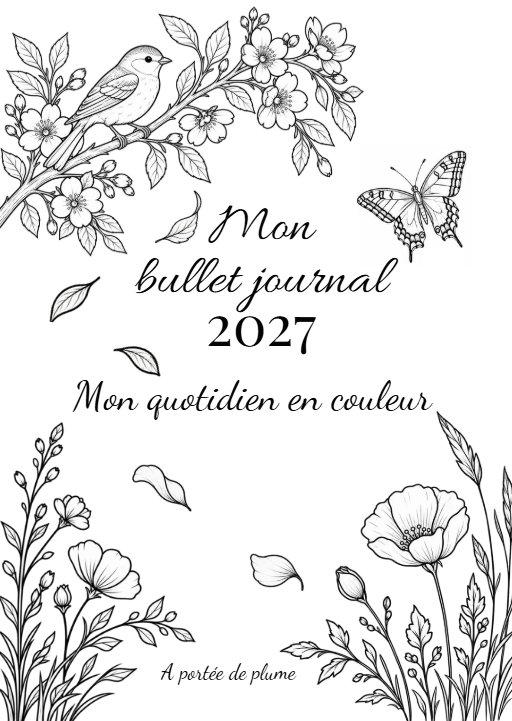
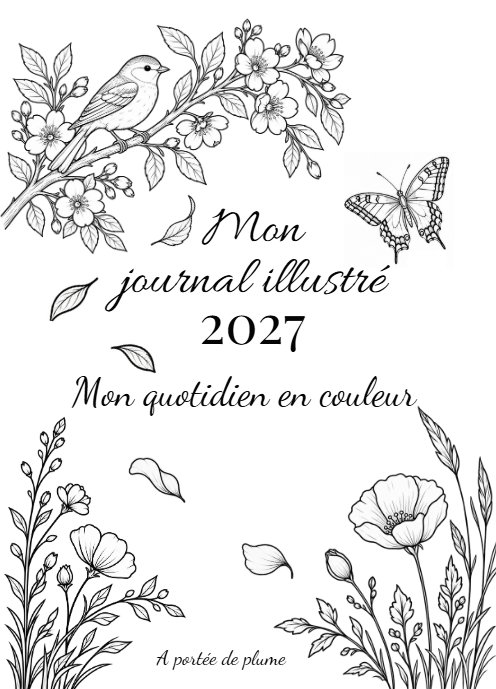
maj

Changed region(s): [[0.0, 0.0, 1.0, 1.0], [0.4839, 0.762, 0.6048, 0.8534], [0.2419, 0.6401, 0.3931, 0.7315]]

diff --git a/products.js b/products.js
@@ -236,16 +236,16 @@ const PRODUCTS = [
   {
     id: "bjf3",
     ref: "BJF3",
-    name: "Mon bullet journal 2027 : Sur les chemins du vivant",
+    name: "Mon journal illustré 2027 : Sur les chemins du vivant",
     category: "bullet-journal",
     price: 26,
     weight: null,
     available: false,
-    shortDesc: "Un bullet journal au fil des saisons, pour organiser son quotidien tout en gardant un pied dans la nature.",
+    shortDesc: "Un journal illustré au fil des saisons, pour organiser son quotidien tout en gardant un pied dans la nature.",
     longDesc: [
       "Sur les chemins du vivant accompagnera toute l'année 2027 avec un univers tourné vers la nature et l'observation du monde qui nous entoure. Pensé comme un mélange entre outil d'organisation et carnet naturaliste, il permet de suivre ses habitudes, ses projets et ses envies tout en gardant une trace de ses sorties et de ses observations.",
-      { heading: "Un bullet journal tourné vers le vivant" },
-      "En plus des pages classiques d'un bullet journal (calendrier annuel, objectifs, projets, trackers du quotidien), ce carnet propose des espaces pensés pour celles et ceux qui aiment observer la nature au fil des saisons.",
+      { heading: "Un journal illustré tourné vers le vivant" },
+      "En plus des pages classiques d'un journal illustré (calendrier annuel, objectifs, projets, trackers du quotidien), ce carnet propose des espaces pensés pour celles et ceux qui aiment observer la nature au fil des saisons.",
       "Les informations complètes sur son contenu seront précisées à l'approche de sa sortie."
     ],
     specs: [
@@ -259,26 +259,25 @@ const PRODUCTS = [
   {
     id: "bjf4",
     ref: "BJF4",
-    name: "Mon bullet journal 2027 : Mon quotidien en couleur",
+    name: "Mon journal illustré 2027 : Mon quotidien en couleur",
     category: "bullet-journal",
     images: ["images/bjf4-a.jpg"],
     price: 24,
-    weight: null,
-    available: false,
-    shortDesc: "Un bullet journal entièrement à colorier, avec un univers différent chaque mois au fil des saisons et de l'année 2027.",
+    weight: 420,
+    available: true,
+    shortDesc: "Un journal illustré entièrement à colorier, avec un univers différent chaque mois au fil des saisons et de l'année 2027.",
     longDesc: [
-      "Mon quotidien en couleur est un bullet journal pensé pour celles et ceux qui aiment autant organiser leur quotidien que prendre le temps de colorier. Chaque page est illustrée en noir et blanc, prête à être mise en couleur au fil de l'année 2027.",
+      "Mon quotidien en couleur est un journal illustré pensé pour celles et ceux qui aiment autant organiser leur quotidien que prendre le temps de colorier. Chaque page est illustrée en noir et blanc, prête à être mise en couleur au fil de l'année 2027.",
       { heading: "Un thème à colorier chaque mois" },
       "Chaque mois a son propre univers, inspiré de la saison, d'une fête qui le marque et de la nature du moment : la plage en juillet, Noël en décembre... Quelques minutes de coloriage en remplissant son tracker ou en préparant le mois suivant, et un moment d'organisation devient un moment pour soi. À la fin de l'année, aucun exemplaire ne ressemble à un autre : il est devenu le vôtre.",
       { heading: "Tout pour suivre son année" },
-      "À l'intérieur, vous retrouvez des trackers annuels (sommeil, rêves, santé, humeur, « Rate my day »), des pages mensuelles avec habit tracker, découvertes culturelles et budget, ainsi que des pages pour vos projets, vos objectifs, votre wishlist et une check-list de valise.",
-      { heading: "Un papier pensé pour le coloriage" },
-      "L'intérieur est imprimé sur un papier choisi pour mieux supporter le coloriage."
+      "À l'intérieur, vous retrouvez des trackers annuels (sommeil, rêves, santé, humeur, « Rate my day »), des pages mensuelles avec habit tracker, découvertes culturelles et budget, ainsi que des pages pour vos projets, vos objectifs, votre wishlist et une check-list de valise."
     ],
     specs: [
       ["Format", "A5"],
       ["Couverture", "souple"],
       ["Intérieur", "noir et blanc, entièrement à colorier"],
+      ["Pages", "284"],
       ["Thèmes", "un univers par mois, entre saisons, fêtes et nature"],
       ["Année", "2027"]
     ],
@@ -287,24 +286,26 @@ const PRODUCTS = [
   {
     id: "bjf5",
     ref: "BJF5",
-    name: "Mon bullet journal 2027 : Les traces de mon année",
+    name: "Mon journal illustré 2027 : Les traces de mon année",
     category: "bullet-journal",
     images: ["images/bjf5-a.jpg"],
     price: 22,
-    weight: null,
-    available: false,
-    shortDesc: "Le bullet journal poétique et coloré de la collection, de retour pour accompagner l'année 2027.",
+    weight: 350,
+    available: true,
+    shortDesc: "Un journal illustré poétique et coloré pour organiser son quotidien, suivre son évolution et garder une trace de tout ce qui fait son année 2027.",
     longDesc: [
-      "Les traces de mon année revient pour 2027, dans la continuité de la version 2026 : un univers doux inspiré de la nature, des fleurs et des papillons, pensé comme un mélange entre outil d'organisation et carnet personnel.",
+      "Avec son univers doux inspiré de la nature, des fleurs et des papillons, Les traces de mon année accompagne toute l'année 2027. Pensé comme un mélange entre outil d'organisation et carnet personnel, il permet de suivre ses habitudes, ses projets, ses envies et les petits moments du quotidien.",
       { heading: "Une année à suivre, mois après mois" },
-      "Le carnet comprend plusieurs trackers annuels pour observer son année dans son ensemble : sommeil, rêves, santé, humeur ainsi qu'un tracker « Rate my day » pour garder une trace de son ressenti au fil des jours.",
-      "Chaque mois possède également ses propres pages à compléter avec un habit tracker, des pages consacrées à vos découvertes culturelles, une page budget et des pages libres à utiliser pour vos notes, souvenirs, idées ou selon vos envies.",
-      "Des espaces supplémentaires sont dédiés à vos projets, vos objectifs, votre wishlist et une check-list de valise pour préparer plus facilement vos voyages et escapades."
+      "Des trackers annuels permettent d'observer son année dans son ensemble : sommeil, rêves, santé, humeur, ainsi qu'un tracker « Rate my day » pour garder une trace de son ressenti au fil des jours.",
+      "Chaque mois s'ouvre sur une page de présentation illustrée, puis propose son habit tracker, des pages consacrées à vos découvertes culturelles, une page budget et des pages libres pour vos notes, souvenirs et idées.",
+      { heading: "Un espace pour tout garder" },
+      "Des pages supplémentaires sont dédiées à vos projets, vos objectifs, votre wishlist et une check-list de valise pour préparer vos voyages et escapades."
     ],
     specs: [
       ["Format", "A5"],
       ["Couverture", "souple"],
       ["Intérieur", "en couleur"],
+      ["Pages", "255"],
       ["Année", "2027"]
     ],
     icon: "compass"
@@ -463,7 +464,7 @@ const PRODUCTS = [
     shortDesc: "Un petit lot coloré pour décorer carnets, agendas, lettres et créations.",
     longDesc: [
       "Ce lot contient 10 autocollants représentant différents oiseaux, à utiliser selon vos envies pour personnaliser vos supports du quotidien.",
-      "Ils peuvent être collés dans un carnet d'observation, un bullet journal, un agenda, sur une carte ou dans toute autre création personnelle."
+      "Ils peuvent être collés dans un carnet d'observation, un journal illustré, un agenda, sur une carte ou dans toute autre création personnelle."
     ],
     specs: [
       ["Contenu", "10 autocollants d'oiseaux"],
@@ -484,7 +485,7 @@ const PRODUCTS = [
     shortDesc: "Un petit lot coloré pour décorer carnets, agendas, lettres et créations.",
     longDesc: [
       "Ce lot contient 10 autocollants représentant différents insectes, à utiliser selon vos envies pour personnaliser vos supports du quotidien.",
-      "Ils peuvent être collés dans un carnet d'observation, un bullet journal, un agenda, sur une carte ou dans toute autre création personnelle."
+      "Ils peuvent être collés dans un carnet d'observation, un journal illustré, un agenda, sur une carte ou dans toute autre création personnelle."
     ],
     specs: [
       ["Contenu", "10 autocollants d'insectes"],
@@ -500,7 +501,7 @@ const PRODUCTS = [
    d'un autre thème que "oiseaux" est ajouté au catalogue — même logique que pour "Autocollants". */
 const CATEGORIES = [
   { id: "carnets-observation", label: "Carnets d'observation" },
-  { id: "bullet-journal", label: "Bullet Journal" },
+  { id: "bullet-journal", label: "Journaux illustrés" },
   { id: "colorier", label: "Illustrations à colorier" },
   { id: "stickers", label: "Autocollants" }
 ];

diff --git a/commande.html b/commande.html
@@ -179,19 +179,7 @@
       <a href="mailto:aporteedeplume.contact@gmail.com" style="color:var(--brique); font-weight:600;">aporteedeplume.contact@gmail.com</a>.
     </div>
 
-    <div class="next-steps" style="margin-top:16px; padding-top:16px;" id="payment-info-virement">
-      <b>Règlement par virement</b>
-      Après réception de votre bon de commande, vous recevrez le RIB par e-mail.
-      <br><br>
-      Merci d'indiquer <strong>votre prénom et nom</strong> dans le libellé du virement, afin que votre commande soit facilement retrouvée.
-      <br><br>
-      La commande est traitée et expédiée <strong>à réception du paiement</strong>.
-    </div>
-
-    <div class="next-steps" style="margin-top:16px; padding-top:16px; display:none;" id="payment-info-carte">
-      <b>Règlement par carte bancaire</b>
-      Après réception de votre bon de commande, vous recevrez par e-mail un lien de paiement sécurisé SumUp.
-      <br><br>
+    <div class="next-steps" style="margin-top:16px; padding-top:16px;">
       La commande est traitée et expédiée <strong>à réception du paiement</strong>.
     </div>
   </aside>
@@ -302,18 +290,9 @@
   const homeAddressBlock = document.getElementById('home-address-block');
   const relayPointBlock = document.getElementById('relay-point-block');
   const paymentFields = document.getElementById('payment-fields');
-  const paymentInfoVirement = document.getElementById('payment-info-virement');
-  const paymentInfoCarte = document.getElementById('payment-info-carte');
   const summaryTotal = document.getElementById('summary-total');
   const generateBtn = document.getElementById('generate-btn');
   const formMsg = document.getElementById('form-msg');
-
-  function updatePaymentInfoVisibility(){
-    const checked = document.querySelector('input[name="payment"]:checked');
-    const method = checked ? checked.value : 'virement';
-    paymentInfoVirement.style.display = method === 'virement' ? 'block' : 'none';
-    paymentInfoCarte.style.display = method === 'carte' ? 'block' : 'none';
-  }
 
   function fmt(n){
     if(n === null || n === undefined) return 'Prix à venir';
@@ -502,11 +481,6 @@
     radio.addEventListener('change', renderSummary);
   });
 
-  document.querySelectorAll('input[name="payment"]').forEach(radio => {
-    radio.addEventListener('change', updatePaymentInfoVisibility);
-  });
-  updatePaymentInfoVisibility();
-
   function showMsg(text, type){
     formMsg.textContent = text;
     formMsg.className = 'form-msg ' + type;
@@ -564,10 +538,6 @@
       showMsg("Le générateur de PDF n'a pas pu se charger. Vérifiez votre connexion et réessayez.", "error");
       return;
     }
-
-    const buyerLabel = name;
-    const checkedPayment = document.querySelector('input[name="payment"]:checked');
-    const paymentMethod = checkedPayment ? checkedPayment.value : 'virement';
 
     const { jsPDF } = window.jspdf;
     const doc = new jsPDF({ unit: 'mm', format: 'a4' });
@@ -720,36 +690,6 @@
     const lines = doc.splitTextToSize(instructions, pageWidth - margin*2);
     doc.text(lines, margin, y);
     y += lines.length * 5 + 8;
-
-    doc.setDrawColor(180,180,180);
-    doc.line(margin, y, pageWidth - margin, y);
-    y += 10;
-
-    doc.setFont('helvetica', 'bold');
-    doc.setFontSize(11);
-    doc.setTextColor(20,20,20);
-    doc.text('Règlement', margin, y);
-    y += 7;
-
-    doc.setFont('helvetica', 'normal');
-    doc.setFontSize(9.5);
-    doc.setTextColor(70,70,70);
-    const paymentLines = paymentMethod === 'carte'
-      ? [
-          'Paiement par carte bancaire via un lien de paiement sécurisé SumUp.',
-          'Ce lien vous sera envoyé par e-mail après réception de ce bon de commande.',
-          'La commande est traitée et expédiée à réception du paiement.'
-        ]
-      : [
-          'Paiement par virement bancaire. Le RIB vous sera envoyé par e-mail après réception de ce bon de commande.',
-          'Libellé du virement à indiquer : "' + buyerLabel + '"',
-          'La commande est traitée et expédiée à réception du paiement.'
-        ];
-    paymentLines.forEach(line => {
-      const wrapped = doc.splitTextToSize(line, pageWidth - margin*2);
-      doc.text(wrapped, margin, y);
-      y += wrapped.length * 5 + 3;
-    });
 
     doc.save('bon-de-commande-' + orderNumber + '.pdf');
     showMsg("Votre bon de commande a été téléchargé. Il ne reste plus qu'à l'envoyer par e-mail à " + CONTACT_EMAIL + ".", "success");

diff --git a/catalogue.html b/catalogue.html
@@ -4,7 +4,7 @@
 <meta charset="UTF-8">
 <meta name="viewport" content="width=device-width, initial-scale=1.0">
 <title>Boutique — À portée de plume</title>
-<meta name="description" content="La collection À portée de plume : carnets d'observation, bullet journal, illustrations à colorier et plus encore.">
+<meta name="description" content="La collection À portée de plume : carnets d'observation, journaux illustrés, illustrations à colorier et plus encore.">
 <link rel="preconnect" href="https://fonts.googleapis.com">
 <link rel="preconnect" href="https://fonts.gstatic.com" crossorigin>
 <link href="https://fonts.googleapis.com/css2?family=Fraunces:ital,opsz,wght@0,9..144,400;0,9..144,500;0,9..144,600;1,9..144,500&family=Work+Sans:wght@400;500;600&family=Space+Mono:wght@400;700&display=swap" rel="stylesheet">
@@ -138,7 +138,7 @@
   const THEME_LABELS = {
     oiseaux: 'Oiseaux',
     insectes: 'Insectes',
-    'bullet-journal': 'Bullet Journal'
+    'bullet-journal': 'Journaux illustrés'
   };
 
   function fmtPrice(n){

diff --git a/index.html b/index.html
@@ -92,7 +92,7 @@
     <div class="section-head">
       <div class="label">La collection</div>
       <h2>Des carnets pour toutes les envies.</h2>
-      <p class="nowrap-desktop">Carnets d'observation, créations naturalistes, bullet journals… Découvrez une sélection de la collection À portée de plume.</p>
+      <p class="nowrap-desktop">Carnets d'observation, créations naturalistes, journaux illustrés… Découvrez une sélection de la collection À portée de plume.</p>
     </div>
     <div class="product-grid" id="home-product-preview">
       <!-- Rempli en JavaScript avec 3 carnets représentatifs -->
